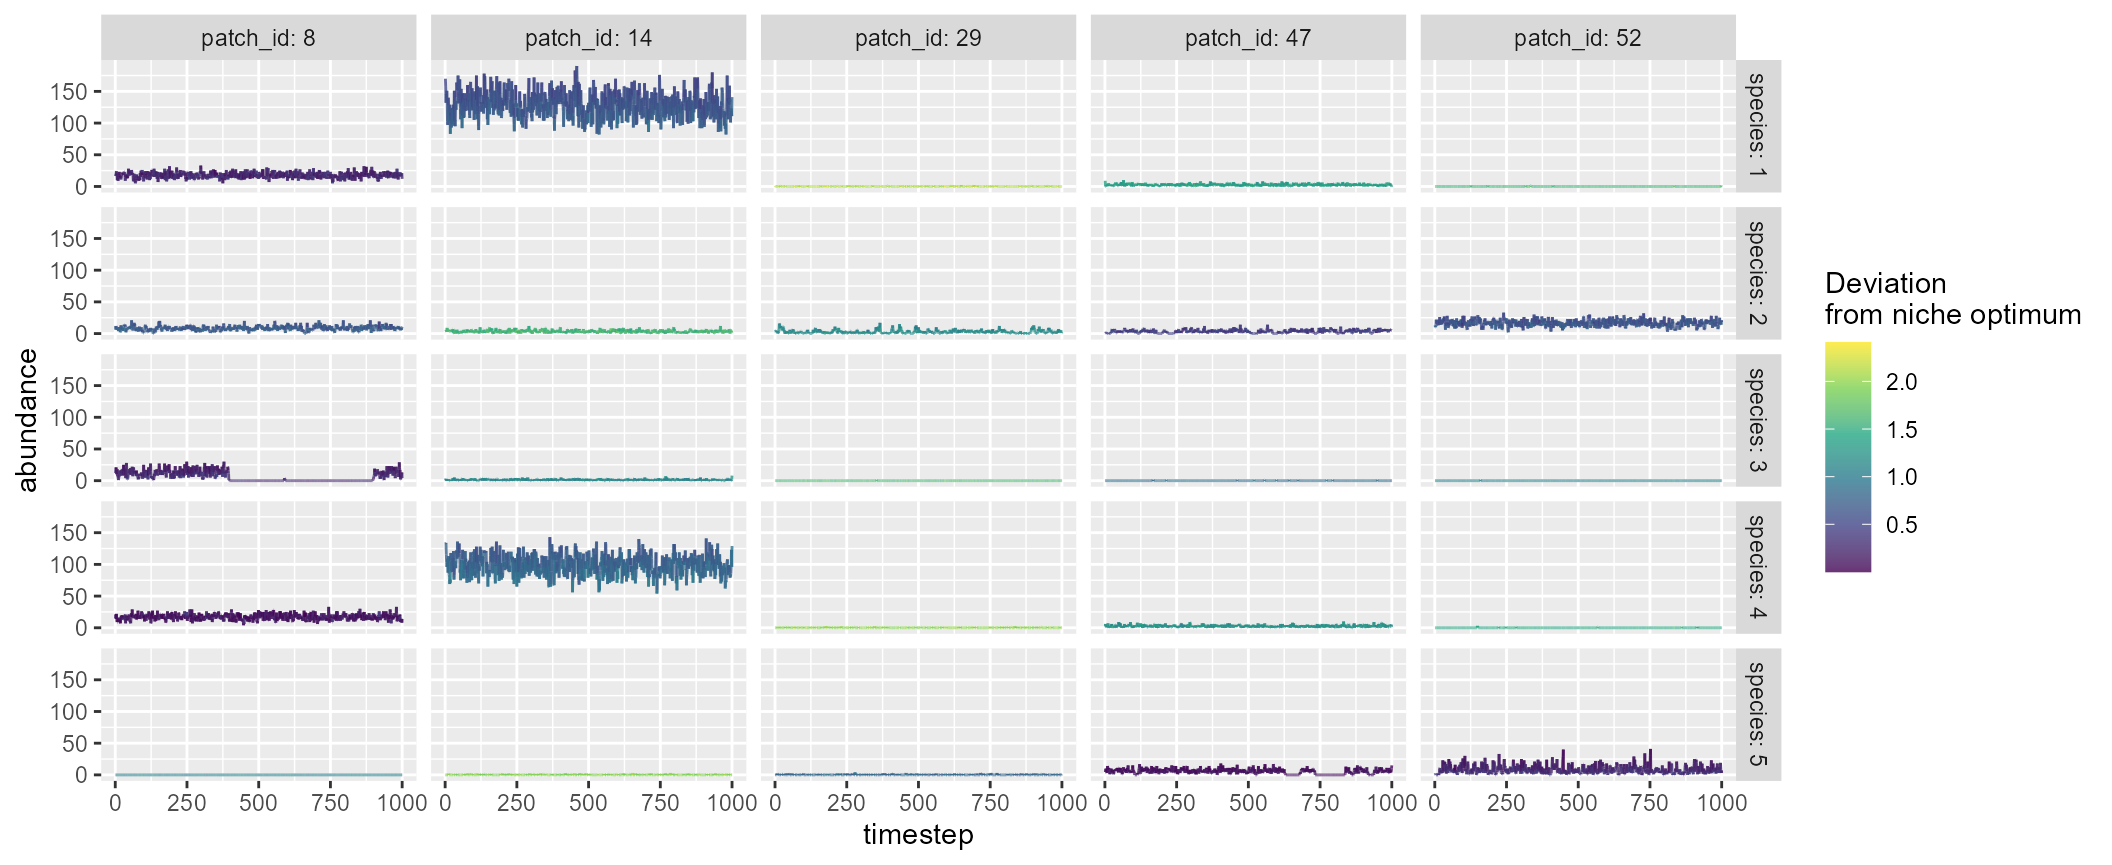
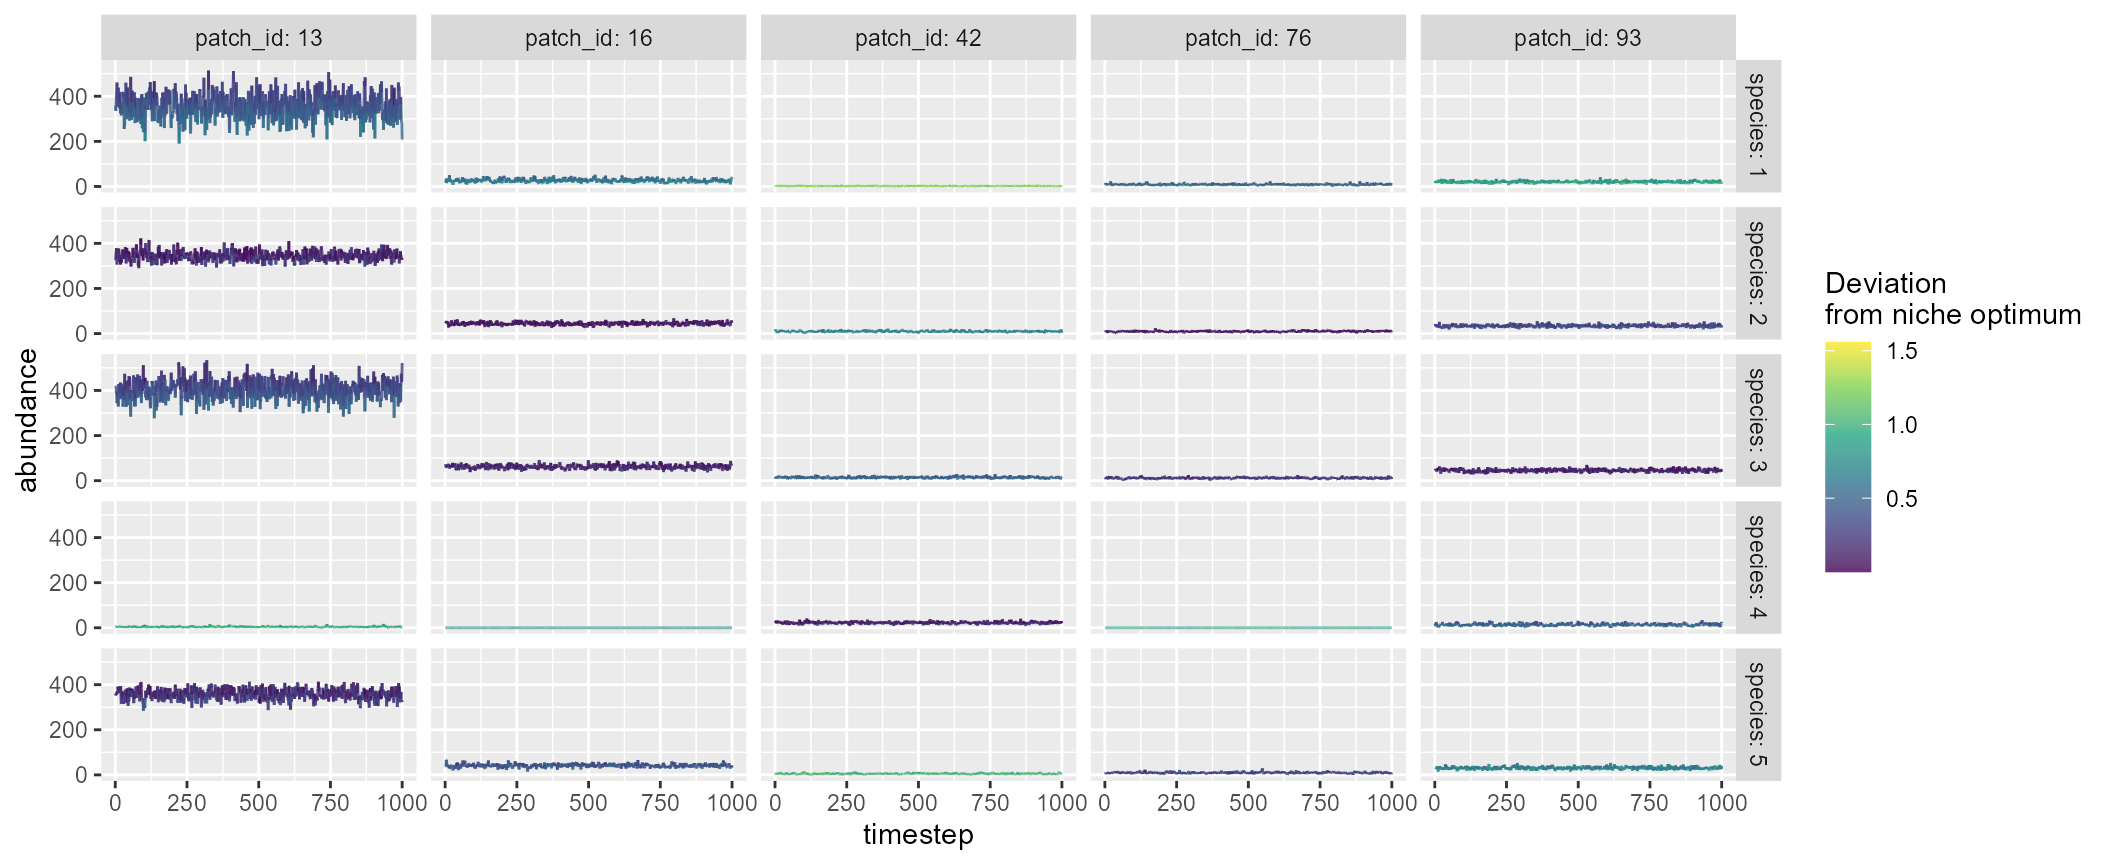
edit: vignettes

diff --git a/docs/articles/mcsim.html b/docs/articles/mcsim.html
@@ -195,63 +195,63 @@ species that are randomly chosen:</p>
 <code class="sourceCode R"><span class="va">mc</span>
 <span class="co">#&gt; $df_dynamics</span>
 <span class="co">#&gt; <span style="color: #949494;"># A tibble: 25,000 x 9</span></span>
-<span class="co">#&gt;    timestep patch_id mean_env      env carrying_capacity species niche_optim</span>
-<span class="co">#&gt;       <span style="color: #949494; font-style: italic;">&lt;dbl&gt;</span>    <span style="color: #949494; font-style: italic;">&lt;dbl&gt;</span>    <span style="color: #949494; font-style: italic;">&lt;dbl&gt;</span>    <span style="color: #949494; font-style: italic;">&lt;dbl&gt;</span>             <span style="color: #949494; font-style: italic;">&lt;dbl&gt;</span>   <span style="color: #949494; font-style: italic;">&lt;dbl&gt;</span>       <span style="color: #949494; font-style: italic;">&lt;dbl&gt;</span></span>
-<span class="co">#&gt; <span style="color: #BCBCBC;"> 1</span>        1        1        0 -<span style="color: #BB0000;">0.001</span><span style="color: #BB0000; text-decoration: underline;">18</span>               100       1       0.340</span>
-<span class="co">#&gt; <span style="color: #BCBCBC;"> 2</span>        1        1        0 -<span style="color: #BB0000;">0.001</span><span style="color: #BB0000; text-decoration: underline;">18</span>               100       2      -<span style="color: #BB0000;">0.132</span></span>
-<span class="co">#&gt; <span style="color: #BCBCBC;"> 3</span>        1        1        0 -<span style="color: #BB0000;">0.001</span><span style="color: #BB0000; text-decoration: underline;">18</span>               100       3      -<span style="color: #BB0000;">0.761</span></span>
-<span class="co">#&gt; <span style="color: #BCBCBC;"> 4</span>        1        1        0 -<span style="color: #BB0000;">0.001</span><span style="color: #BB0000; text-decoration: underline;">18</span>               100       4       0.912</span>
-<span class="co">#&gt; <span style="color: #BCBCBC;"> 5</span>        1        1        0 -<span style="color: #BB0000;">0.001</span><span style="color: #BB0000; text-decoration: underline;">18</span>               100       5       0.306</span>
-<span class="co">#&gt; <span style="color: #BCBCBC;"> 6</span>        1        2        0  0.109                 100       1       0.340</span>
-<span class="co">#&gt; <span style="color: #BCBCBC;"> 7</span>        1        2        0  0.109                 100       2      -<span style="color: #BB0000;">0.132</span></span>
-<span class="co">#&gt; <span style="color: #BCBCBC;"> 8</span>        1        2        0  0.109                 100       3      -<span style="color: #BB0000;">0.761</span></span>
-<span class="co">#&gt; <span style="color: #BCBCBC;"> 9</span>        1        2        0  0.109                 100       4       0.912</span>
-<span class="co">#&gt; <span style="color: #BCBCBC;">10</span>        1        2        0  0.109                 100       5       0.306</span>
-<span class="co">#&gt; <span style="color: #949494;"># ... with 24,990 more rows, and 2 more variables: r_xt &lt;dbl&gt;, abundance &lt;dbl&gt;</span></span>
+<span class="co">#&gt;    timestep patch_id mean_env     env carrying_capaci~ species niche_optim  r_xt</span>
+<span class="co">#&gt;       <span style="color: #949494; font-style: italic;">&lt;dbl&gt;</span>    <span style="color: #949494; font-style: italic;">&lt;dbl&gt;</span>    <span style="color: #949494; font-style: italic;">&lt;dbl&gt;</span>   <span style="color: #949494; font-style: italic;">&lt;dbl&gt;</span>            <span style="color: #949494; font-style: italic;">&lt;dbl&gt;</span>   <span style="color: #949494; font-style: italic;">&lt;dbl&gt;</span>       <span style="color: #949494; font-style: italic;">&lt;dbl&gt;</span> <span style="color: #949494; font-style: italic;">&lt;dbl&gt;</span></span>
+<span class="co">#&gt; <span style="color: #BCBCBC;"> 1</span>        1        1        0 -<span style="color: #BB0000;">0.056</span><span style="color: #BB0000; text-decoration: underline;">1</span>              100       1      -<span style="color: #BB0000;">0.602</span> 2.29 </span>
+<span class="co">#&gt; <span style="color: #BCBCBC;"> 2</span>        1        1        0 -<span style="color: #BB0000;">0.056</span><span style="color: #BB0000; text-decoration: underline;">1</span>              100       2       0.953 1.18 </span>
+<span class="co">#&gt; <span style="color: #BCBCBC;"> 3</span>        1        1        0 -<span style="color: #BB0000;">0.056</span><span style="color: #BB0000; text-decoration: underline;">1</span>              100       3      -<span style="color: #BB0000;">0.807</span> 1.89 </span>
+<span class="co">#&gt; <span style="color: #BCBCBC;"> 4</span>        1        1        0 -<span style="color: #BB0000;">0.056</span><span style="color: #BB0000; text-decoration: underline;">1</span>              100       4       0.518 0.815</span>
+<span class="co">#&gt; <span style="color: #BCBCBC;"> 5</span>        1        1        0 -<span style="color: #BB0000;">0.056</span><span style="color: #BB0000; text-decoration: underline;">1</span>              100       5      -<span style="color: #BB0000;">0.356</span> 2.85 </span>
+<span class="co">#&gt; <span style="color: #BCBCBC;"> 6</span>        1        2        0 -<span style="color: #BB0000;">0.066</span><span style="color: #BB0000; text-decoration: underline;">0</span>              100       1      -<span style="color: #BB0000;">0.602</span> 2.31 </span>
+<span class="co">#&gt; <span style="color: #BCBCBC;"> 7</span>        1        2        0 -<span style="color: #BB0000;">0.066</span><span style="color: #BB0000; text-decoration: underline;">0</span>              100       2       0.953 1.16 </span>
+<span class="co">#&gt; <span style="color: #BCBCBC;"> 8</span>        1        2        0 -<span style="color: #BB0000;">0.066</span><span style="color: #BB0000; text-decoration: underline;">0</span>              100       3      -<span style="color: #BB0000;">0.807</span> 1.91 </span>
+<span class="co">#&gt; <span style="color: #BCBCBC;"> 9</span>        1        2        0 -<span style="color: #BB0000;">0.066</span><span style="color: #BB0000; text-decoration: underline;">0</span>              100       4       0.518 0.772</span>
+<span class="co">#&gt; <span style="color: #BCBCBC;">10</span>        1        2        0 -<span style="color: #BB0000;">0.066</span><span style="color: #BB0000; text-decoration: underline;">0</span>              100       5      -<span style="color: #BB0000;">0.356</span> 2.89 </span>
+<span class="co">#&gt; <span style="color: #949494;"># ... with 24,990 more rows, and 1 more variable: abundance &lt;dbl&gt;</span></span>
 <span class="co">#&gt; </span>
 <span class="co">#&gt; $df_species</span>
 <span class="co">#&gt; <span style="color: #949494;"># A tibble: 5 x 6</span></span>
 <span class="co">#&gt;   species mean_abundance    r0 niche_optim sd_niche_width p_dispersal</span>
 <span class="co">#&gt;     <span style="color: #949494; font-style: italic;">&lt;dbl&gt;</span>          <span style="color: #949494; font-style: italic;">&lt;dbl&gt;</span> <span style="color: #949494; font-style: italic;">&lt;dbl&gt;</span>       <span style="color: #949494; font-style: italic;">&lt;dbl&gt;</span>          <span style="color: #949494; font-style: italic;">&lt;dbl&gt;</span>       <span style="color: #949494; font-style: italic;">&lt;dbl&gt;</span></span>
-<span class="co">#&gt; <span style="color: #BCBCBC;">1</span>       1           58.1     4       0.340          0.686         0.1</span>
-<span class="co">#&gt; <span style="color: #BCBCBC;">2</span>       2           67.5     4      -<span style="color: #BB0000;">0.132</span>          0.223         0.1</span>
-<span class="co">#&gt; <span style="color: #BCBCBC;">3</span>       3           24.4     4      -<span style="color: #BB0000;">0.761</span>          0.729         0.1</span>
-<span class="co">#&gt; <span style="color: #BCBCBC;">4</span>       4            0       4       0.912          0.366         0.1</span>
-<span class="co">#&gt; <span style="color: #BCBCBC;">5</span>       5           48.4     4       0.306          0.917         0.1</span>
+<span class="co">#&gt; <span style="color: #BCBCBC;">1</span>       1          38.7      4      -<span style="color: #BB0000;">0.602</span>          0.813         0.1</span>
+<span class="co">#&gt; <span style="color: #BCBCBC;">2</span>       2           7.22     4       0.953          0.730         0.1</span>
+<span class="co">#&gt; <span style="color: #BCBCBC;">3</span>       3          24.5      4      -<span style="color: #BB0000;">0.807</span>          0.843         0.1</span>
+<span class="co">#&gt; <span style="color: #BCBCBC;">4</span>       4           0        4       0.518          0.327         0.1</span>
+<span class="co">#&gt; <span style="color: #BCBCBC;">5</span>       5          50.4      4      -<span style="color: #BB0000;">0.356</span>          0.423         0.1</span>
 <span class="co">#&gt; </span>
 <span class="co">#&gt; $df_patch</span>
 <span class="co">#&gt; <span style="color: #949494;"># A tibble: 5 x 5</span></span>
 <span class="co">#&gt;   patch_id alpha_div mean_env carrying_capacity connectivity</span>
 <span class="co">#&gt;      <span style="color: #949494; font-style: italic;">&lt;dbl&gt;</span>     <span style="color: #949494; font-style: italic;">&lt;dbl&gt;</span>    <span style="color: #949494; font-style: italic;">&lt;dbl&gt;</span>             <span style="color: #949494; font-style: italic;">&lt;dbl&gt;</span>        <span style="color: #949494; font-style: italic;">&lt;dbl&gt;</span></span>
-<span class="co">#&gt; <span style="color: #BCBCBC;">1</span>        1      4           0               100      0.344  </span>
-<span class="co">#&gt; <span style="color: #BCBCBC;">2</span>        2      4           0               100      0.107  </span>
-<span class="co">#&gt; <span style="color: #BCBCBC;">3</span>        3      4           0               100      0.316  </span>
-<span class="co">#&gt; <span style="color: #BCBCBC;">4</span>        4      3.99        0               100      0.004<span style="text-decoration: underline;">81</span></span>
-<span class="co">#&gt; <span style="color: #BCBCBC;">5</span>        5      4           0               100      0.053<span style="text-decoration: underline;">7</span> </span>
+<span class="co">#&gt; <span style="color: #BCBCBC;">1</span>        1      3.99        0               100      0.068<span style="text-decoration: underline;">4</span> </span>
+<span class="co">#&gt; <span style="color: #BCBCBC;">2</span>        2      3.95        0               100      0.054<span style="text-decoration: underline;">8</span> </span>
+<span class="co">#&gt; <span style="color: #BCBCBC;">3</span>        3      3.54        0               100      0.008<span style="text-decoration: underline;">16</span></span>
+<span class="co">#&gt; <span style="color: #BCBCBC;">4</span>        4      3.95        0               100      0.052<span style="text-decoration: underline;">7</span> </span>
+<span class="co">#&gt; <span style="color: #BCBCBC;">5</span>        5      3.97        0               100      0.056<span style="text-decoration: underline;">1</span> </span>
 <span class="co">#&gt; </span>
 <span class="co">#&gt; $df_diversity</span>
 <span class="co">#&gt; <span style="color: #949494;"># A tibble: 1 x 3</span></span>
 <span class="co">#&gt;   alpha_div beta_div gamma_div</span>
 <span class="co">#&gt;       <span style="color: #949494; font-style: italic;">&lt;dbl&gt;</span>    <span style="color: #949494; font-style: italic;">&lt;dbl&gt;</span>     <span style="color: #949494; font-style: italic;">&lt;dbl&gt;</span></span>
-<span class="co">#&gt; <span style="color: #BCBCBC;">1</span>      4.00     1.00         4</span>
+<span class="co">#&gt; <span style="color: #BCBCBC;">1</span>      3.88     1.03         4</span>
 <span class="co">#&gt; </span>
 <span class="co">#&gt; $df_xy_coord</span>
 <span class="co">#&gt; <span style="color: #949494;"># A tibble: 5 x 2</span></span>
 <span class="co">#&gt;   x_coord y_coord</span>
 <span class="co">#&gt;     <span style="color: #949494; font-style: italic;">&lt;dbl&gt;</span>   <span style="color: #949494; font-style: italic;">&lt;dbl&gt;</span></span>
-<span class="co">#&gt; <span style="color: #BCBCBC;">1</span>    3.16  0.667 </span>
-<span class="co">#&gt; <span style="color: #BCBCBC;">2</span>    2.25  3.67  </span>
-<span class="co">#&gt; <span style="color: #BCBCBC;">3</span>    4.19  0.037<span style="text-decoration: underline;">7</span></span>
-<span class="co">#&gt; <span style="color: #BCBCBC;">4</span>    7.68  8.70  </span>
-<span class="co">#&gt; <span style="color: #BCBCBC;">5</span>    2.53  6.72  </span>
+<span class="co">#&gt; <span style="color: #BCBCBC;">1</span>    2.59    4.37</span>
+<span class="co">#&gt; <span style="color: #BCBCBC;">2</span>    1.69    1.56</span>
+<span class="co">#&gt; <span style="color: #BCBCBC;">3</span>    2.14    9.57</span>
+<span class="co">#&gt; <span style="color: #BCBCBC;">4</span>    7.94    3.27</span>
+<span class="co">#&gt; <span style="color: #BCBCBC;">5</span>    7.28    6.26</span>
 <span class="co">#&gt; </span>
 <span class="co">#&gt; $distance_matrix</span>
 <span class="co">#&gt;          1        2        3        4        5</span>
-<span class="co">#&gt; 1 0.000000 3.132799 1.209187 9.220437 6.088004</span>
-<span class="co">#&gt; 2 3.132799 0.000000 4.114172 7.405549 3.069742</span>
-<span class="co">#&gt; 3 1.209187 4.114172 0.000000 9.341660 6.888346</span>
-<span class="co">#&gt; 4 9.220437 7.405549 9.341660 0.000000 5.516613</span>
-<span class="co">#&gt; 5 6.088004 3.069742 6.888346 5.516613 0.000000</span>
+<span class="co">#&gt; 1 0.000000 2.950717 5.216371 5.464728 5.049518</span>
+<span class="co">#&gt; 2 2.950717 0.000000 8.019307 6.480964 7.296211</span>
+<span class="co">#&gt; 3 5.216371 8.019307 0.000000 8.566544 6.111265</span>
+<span class="co">#&gt; 4 5.464728 6.480964 8.566544 0.000000 3.062926</span>
+<span class="co">#&gt; 5 5.049518 7.296211 6.111265 3.062926 0.000000</span>
 <span class="co">#&gt; </span>
 <span class="co">#&gt; $interaction_matrix</span>
 <span class="co">#&gt;      [,1] [,2] [,3] [,4] [,5]</span>

diff --git a/docs/articles/brnet.html b/docs/articles/brnet.html
@@ -268,18 +268,15 @@ below:</p>
 <li><p>Disturbance levels for upstream terminal patches (i.e., patches
 with no upstream patch) are drawn from a normal distribution in a logit
 scale as <span class="math inline">\(logit~m_h \sim N(logit~\mu_{m},
-\sigma_{h,m}^2)\)</span>. The argument <code>mean_disturb_source</code>
-controls the proportional mean of the disturbance level. The argument
-<code>sd_disturb_source</code> controls the variation in disturbance
-level among headwaters in a logit scale.</p></li>
+\sigma_{h,m}^2)\)</span>.</p></li>
 <li><p>Disturbance cascades downstream as in environmental values: <span class="math inline">\(logit~m_{down} \sim N(logit~m_{up},
 \sigma_{l,m}^2)\)</span>. At bifurcation patches (or confluence), the
 disturbance value takes a weighted mean of the two contributing patches
 given the stream size of these patches <span class="math inline">\(N_{up}\)</span> (the number of upstream
 contributing patches): <span class="math inline">\(logit~m_{down} =
-\omega(logit~logit~m_{up, 1} + \epsilon_1) + (1 - \omega)(logit~
-m_{up,2} + \epsilon_2)\)</span>, where <span class="math inline">\(\omega = \frac{N_{up,1}}{N_{up,1} +
-N_{up,2}}\)</span> and <span class="math inline">\(\epsilon \sim N(0,
+\omega(logit~m_{up, 1} + \epsilon_1) + (1 - \omega)(logit~ m_{up,2} +
+\epsilon_2)\)</span>, where <span class="math inline">\(\omega =
+\frac{N_{up,1}}{N_{up,1} + N_{up,2}}\)</span> and <span class="math inline">\(\epsilon \sim N(0,
 \sigma_{l,m}^2)\)</span>.</p></li>
 </ol>
 <p>Users may change the values of <span class="math inline">\(\mu_{m}\)</span>
